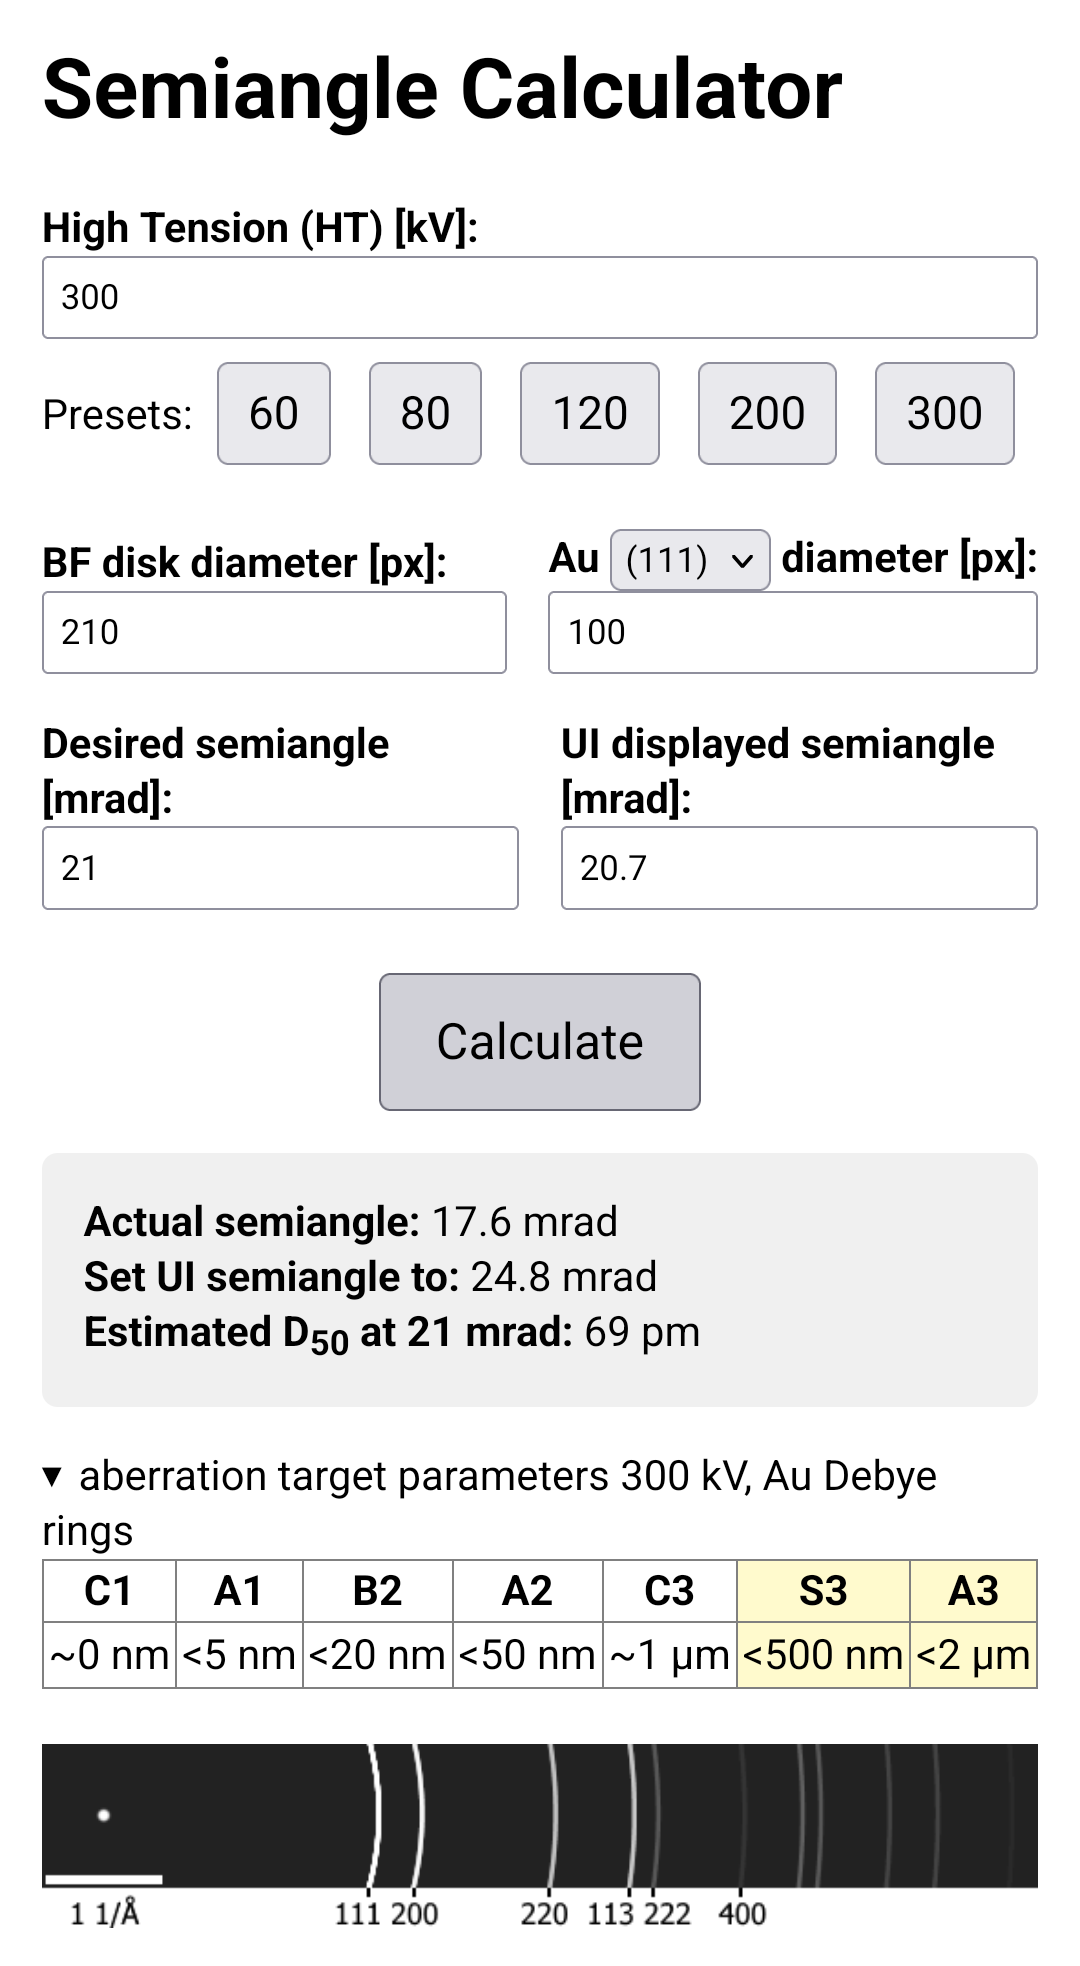
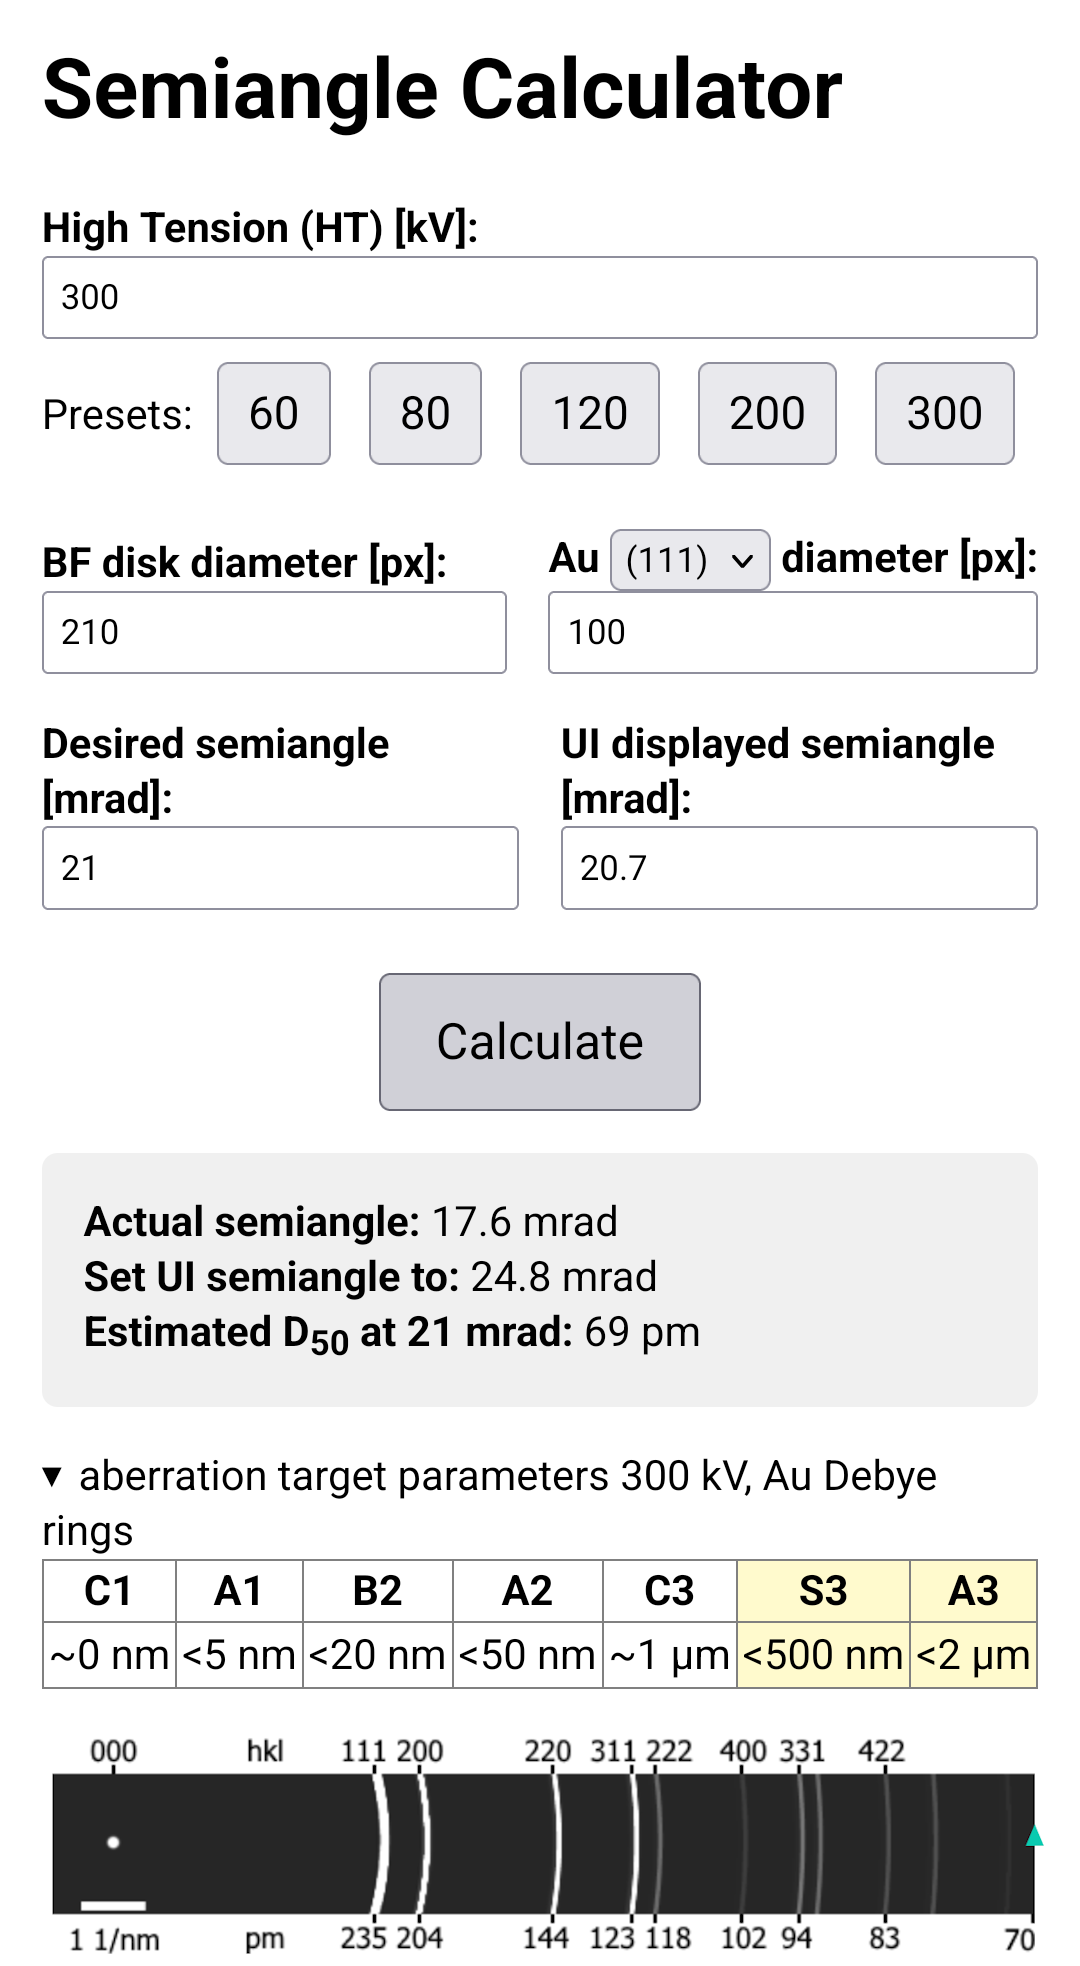
fixed mobile scaling issue

Changed region(s): [[0.0306, 0.8688, 0.9778, 0.9929]]

diff --git a/index.html b/index.html
@@ -16,7 +16,7 @@
       font-family: sans-serif;
       max-width: 600px;
       margin: auto;
-      padding: 1em;
+      padding: 0 1em;
     }
     label { font-weight: bold; display: block; margin-top: 1em; }
     /* make inputs fill their container but not exceed parent widths */
@@ -74,11 +74,13 @@
     /* triangle marker (hidden by default) */
     .ring-marker {
       position: absolute;
+      top: 50%;
       width: 0;
       height: 0;
       border-left: 5px solid transparent;
       border-right: 5px solid transparent;
       border-bottom: 12px solid #0acab0; /* triangle pointing down */
+      transform: translate(-50%, -100%);
       opacity: 0;
       transition: opacity 120ms ease-in-out;
       pointer-events: none;
@@ -92,7 +94,7 @@
   <h1>Semiangle Calculator</h1>
 
   <form onsubmit="calculate(); return false;">
-    <label>High Tension (HT) [kV]:
+    <label>High Tension [kV]:
       <input type="number" id="ht" value="300" enterkeyhint="next">
     </label>
     Presets:
@@ -270,22 +272,13 @@
       const visible_rings = expected_probesize > 0 ? 1000 / expected_probesize : 0; // nm^-1
       const pixel_resolution = 0.0281261; // nm^-1 per pixel
       const marker_position_px = 34 + visible_rings / pixel_resolution; // px, 34px is the offset for the (000) spot
+      const marker_reference_extent_px = 512; // reciprocal image extent used for marker_position_px scaling
 
-      // position and reveal the triangular marker (tip aligned to marker_position_px)
+      // position and reveal the triangular marker
       const marker = document.getElementById('ringMarker');
-      const container = document.querySelector('.rings-container');
-      // determine triangle height from computed CSS (border-bottom width)
-      const triangleHeight = marker ? (parseFloat(getComputedStyle(marker).borderBottomWidth) || 12) : 12; // px
-      if (marker && container && visible_rings > 0) {
-        // set horizontal position (tip of triangle will be at this x)
-        const tipPadding = 5; // px; horizontal visual half-width of triangle
-        const contW = container.getBoundingClientRect().width || container.clientWidth;
-        const leftClamped = Math.round(Math.min(Math.max(marker_position_px, tipPadding), Math.max(tipPadding, contW - tipPadding)));
-        marker.style.left = `${leftClamped}px`;
-        // compute top so the triangle tip (bottom of element) is vertically centered
-        const contH = container.getBoundingClientRect().height || container.clientHeight;
-        const topPx = Math.round(contH / 2);
-        marker.style.top = `${topPx}px`;
+      if (marker && visible_rings > 0) {
+        const xPercent = Math.min(Math.max(marker_position_px / marker_reference_extent_px, 0), 1) * 100;
+        marker.style.left = `${xPercent}%`;
         marker.classList.add('visible');
       } else if (marker) {
         marker.classList.remove('visible');
